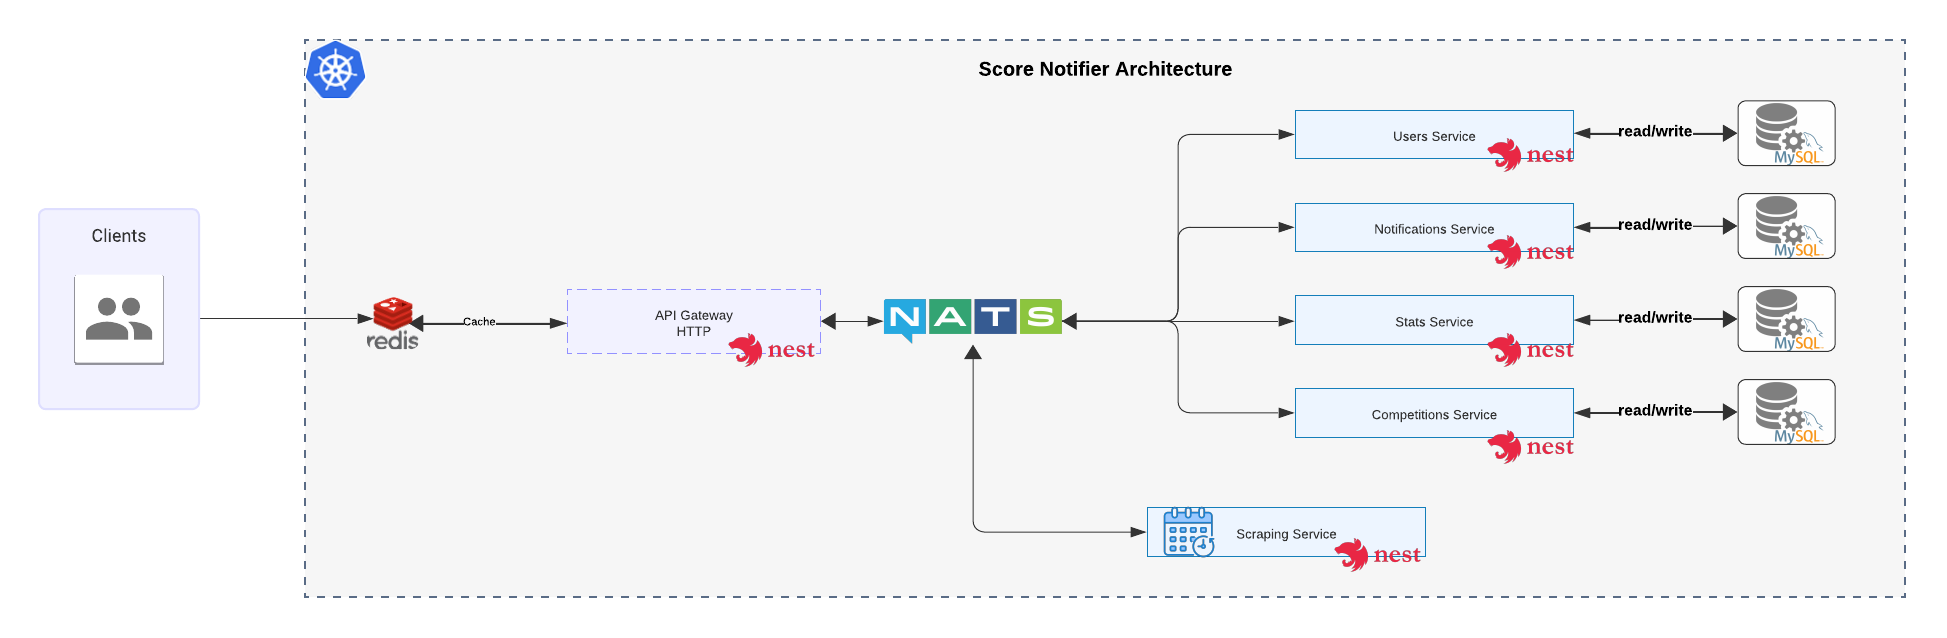
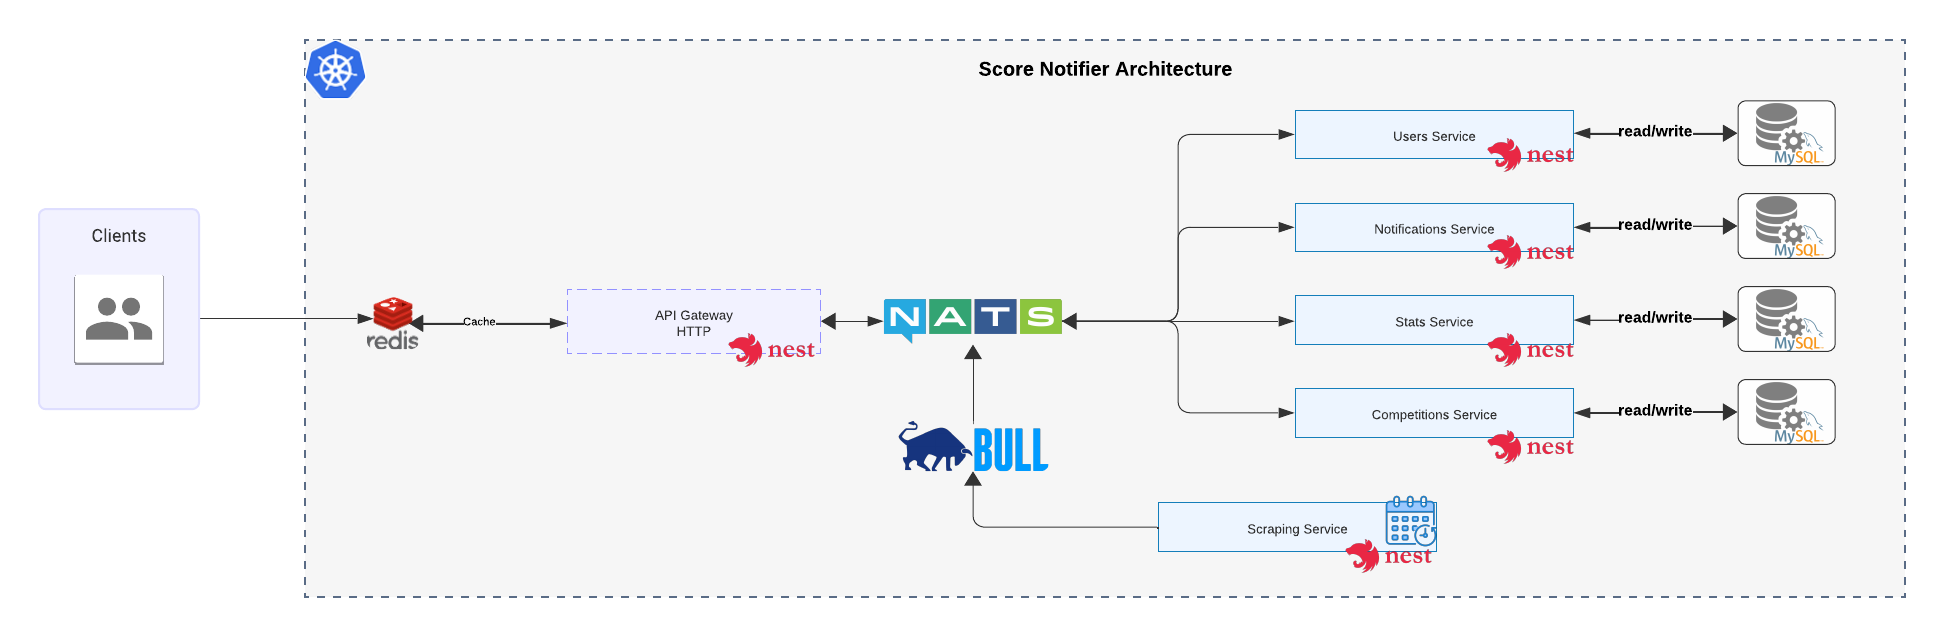
chore: Update api-gateway submodule commit reference

Changed region(s): [[0.4931, 0.7743, 0.7396, 0.8934], [0.4622, 0.6552, 0.5547, 0.7743]]

diff --git a/README.md b/README.md
@@ -1,120 +1,101 @@
 ## Local Setup
 
-1. Clone repository
-2. Create a `.env` file based on the `.env.example`
-3. Update submodules with `git submodule update --init --recursive`
-4. Make sure Docker is running locally
-5. Run `docker compose up --build`
-6. The API Gateway will be accessible at `http://localhost:<PORT>`, where `<PORT>` is the port defined in the
-   `docker-compose.yml` file.
+1. Clone the repository.
+2. Create a `.env` file based on `.env.example`.
+3. Update submodules with `git submodule update --init --recursive`.
+4. Ensure Docker is running locally.
+5. Run `docker compose up --build`.
+6. The API Gateway will be accessible at `http://localhost:<PORT>`, where `<PORT>` is the port defined in the `docker-compose.yml` file.
 
-If you want to update the references of the submodules, you can run the following
-command: `git submodule update --remote`.
+To update the submodule references, you can run the following command: `git submodule update --remote`.
+
+## Run e2e tests
+
+For simplicity, I mock the NATS server and only have positive tests. Negative tests should be added to test the error handling in the future.
+
+If I want to test the actual communication with the microservices, I will need to have all the microservices running, probably already deployed in a cloud provider, and run the e2e tests against them with CI/CD pipelines.
+
+1. Go to the e2e directory: `cd api-gateway`
+2. Run the e2e Docker Compose setup: `docker compose up --build -d`
+3. Run the e2e script: `npm run test:e2e`
 
 ## Architecture Overview
 
 ### API Gateway
 
-The API Gateway is the only entry point exposed to the outside world. It receives HTTP requests from clients and routes
-them to the appropriate microservices. This gateway ensures security and acts as a single point of management for client
-interactions.
+The API Gateway is the only entry point exposed to the outside world. It receives HTTP requests from clients and routes them to the appropriate microservices. This gateway ensures security and acts as a single point of management for client interactions.
+
+### Cache
+
+At this moment, the app uses Redis to cache only the API Gateway GET requests.
 
 ### Microservices
 
-- **Users Microservice**
-    - **Endpoints**:
-        - `Register`: Adds a new user to the database.
-        - `Subscribe`: Adds a subscription to the subscriptions database.
-    - **Database**: MySQL
-    - **Communication**: Via NATS with other microservices and the API Gateway.
+- **API Gateway**
+  - **Communication**: Via NATS with other microservices.
+  - **Cache**: Uses Redis to cache GET requests. For testing purposes, a TTL of 1 minute is set for every GET request.
 
 - **Scraping Microservice**
-    - **Functionality**: When the project starts, the scraping microservice runs a cron job to start the scraping
-      process of the teams.
+  - **Functionality**: When the project starts, the scraping microservice runs a league scheduler and a live matches scheduler using Bull to handle queues. This setup helps distribute the load and allows the user to adjust concurrency, limiters, and cron expressions to manage available resources.
+  - **Communication**: Via NATS with other microservices and Redis to handle queues using Bull.
+
+- **Users Microservice**
+  - **Functionality**: The users microservice stores user profiles and user subscriptions.
+  - **Database**: MySQL
+  - **Communication**: Via NATS with other microservices and the API Gateway.
 
 - **Competitions Microservice**
-    - **Functionality**: The competitions microservice stores leagues and teams; currently, it only receives teams sent
-      by the scraping
-      microservice. The functionality to store leagues is still pending.
-    - **Database**: MySQL
+  - **Functionality**: The competitions microservice stores leagues, teams, and matches.
+  - **Database**: MySQL
+  - **Communication**: Via NATS with other microservices and the API Gateway.
 
 - **Notifications Microservice**
-    - **Functionality**: I have created the logic in the notifications microservice to send notifications to active
-      subscriptions, but the
-      scraping microservice does not yet have the functionality to generate notifications and communicate with the
-      notifications microservice.
-    - **Database**: MySQL
+  - **Functionality**: This microservice will send live match notifications to active user subscriptions.
+  - **Database**: MySQL
+  - **Communication**: Via NATS with other microservices and the API Gateway.
 
 - **Stats Microservice**
-    - **Functionality**: (Pending) This microservice will handle statistical data.
-    - **Database**: MySQL
+  - **Functionality**: This microservice will handle statistical data.
+  - **Database**: MySQL
+  - **Communication**: Via NATS with other microservices and the API Gateway.
 
 ### Docker and Docker-Compose
 
-Each microservice is containerized using Docker to ensure consistency and portability across different environments. A
-project launcher uses Docker-Compose to bring up the necessary databases and microservices together, facilitating
-development and deployment.
+Each microservice is containerized using Docker to ensure consistency and portability across different environments. A project launcher uses Docker-Compose to bring up the necessary databases and microservices together, facilitating development and deployment.
 
 ## Benefits of the Architecture
 
-1. **Scalability**: Each microservice can be scaled independently based on its specific needs and traffic. This
-   flexibility allows efficient resource utilization and better performance under load.
-
-2. **Isolation**: By having independent MySQL databases for each microservice, the system ensures data encapsulation and
-   reduces the risk of data corruption or unintended interference between services.
-
-3. **Modularity**: The microservices architecture promotes modular development. Teams can work on different services
-   simultaneously without causing disruptions to the entire system.
-
-4. **Maintainability**: Smaller, well-defined services are easier to manage, update, and debug. It also allows for the
-   adoption of new technologies in specific parts of the system without a complete overhaul.
-
-5. **Resilience**: Faults in one microservice do not affect the entire system. This isolation improves the overall
-   resilience and reliability of the application.
+1. **Scalability**: Each microservice can be scaled independently based on its specific needs and traffic. This flexibility allows efficient resource utilization and better performance under load.
+2. **Isolation**: By having independent MySQL databases for each microservice, the system ensures data encapsulation and reduces the risk of data corruption or unintended interference between services.
+3. **Modularity**: The microservices architecture promotes modular development. Teams can work on different services simultaneously without causing disruptions to the entire system.
+4. **Maintainability**: Smaller, well-defined services are easier to manage, update, and debug. It also allows for the adoption of new technologies in specific parts of the system without a complete overhaul.
+5. **Resilience**: Faults in one microservice do not affect the entire system. This isolation improves the overall resilience and reliability of the application.
 
 ![Application Architecture](./docs/architecture.png)
 
 ## HTTP Requests
 
-You can use the following requests to interact with the API endpoints:
+Import the Postman collections to interact with the API.
 
-### Users Microservice
+[Application Endpoints](./postman-collections/)
 
-- **Register a User**
-    - **Method**: POST
-    - **URL**: `http://localhost:<PORT>/api/users/register`
-    - **Body**:
-      ```json
-      {
-        "name": "name example",
-        "email": "user@example.com",
-        "address": "address example"
-      }
-      ```
+## Kubernetes
 
-- **Subscribe a User**
-    - **Method**: POST
-    - **URL**: `http://localhost:<PORT>/api/users/subscribe`
-    - **Body**:
-      ```json
-      {
-        "userId": "ecad02e5-cb0c-4f70-9b1b-8491740e3d54",
-        "teamId": "a880d039-bb4e-48c9-99ae-6b8734195ca0",
-        "leagueId": "15ed7a50-db72-4f13-afbc-af4268b492bc"
-      }
-      ```
+The app is partially working with Kubernetes and GCloud; however, more time is needed to complete the effort.
 
-## Pending work
+## Pending Work
 
-- [ ] Add stats microservice.
-- [ ] Add notifications when a live game is in progress.
-- [ ] Add missing endpoints.
-- [ ] Add unit tests.
-- [ ] Add integration tests.
+- [X] Add stats microservice.
+- [X] Add notifications when a live game is in progress.
+- [X] Add missing endpoints.
 - [X] Add CI/CD.
 - [X] Add Kubernetes.
-- [ ] Add monitoring.
 - [X] Upload the project to a cloud provider.
 - [X] Add production environment.
-- [ ] Add Caching with Redis.
-- [ ] Add Authentication and Authorization.
+- [X] Add caching with Redis - API Gateway.
+- [X] Add API Gateway integration/e2e tests.
+- [ ] Add caching with Redis - Microservices.
+- [ ] Cache invalidation.
+- [ ] Add authentication and authorization.
+- [ ] Add unit tests.
+- [ ] Add monitoring.
